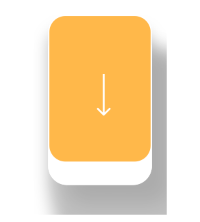
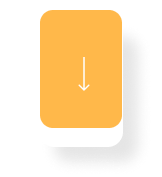
improvements
- re build flip tips png assets
- emoji color to seperate file
- fixed references
- animated scroll to top for question bank

Changed region(s): [[0.216, 0.0565, 0.8333, 0.9887], [0.463, 0.4802, 0.5556, 0.5367], [0.4938, 0.3107, 0.5247, 0.339]]

diff --git a/lib/ui/flash_card/card/flash_card_swipe.dart b/lib/ui/flash_card/card/flash_card_swipe.dart
@@ -68,7 +68,7 @@ class FlashCardSwipeState extends State<FlashCardSwipe>
   bool emojiClick;
   Color topColor;
   String topText;
-  String _confidence;
+  CardAction _confidence;
 
   double screenWidth;
   double screenHeight;
@@ -207,12 +207,12 @@ class FlashCardSwipeState extends State<FlashCardSwipe>
       _isUndoing = true;
     //triggered after top bar shown
     setState(() {
-      _confidence = "";
+      _confidence = null;
       _hideCard = true;
       _showFrontSide = true;
       _cardInPosition = false;
     });
-    Future.delayed(Duration(milliseconds: 300), () {
+    Future.delayed(Duration(milliseconds: Durations.cardFadeGap), () {
       //animate top
       _flashcardtop.currentState.undoTab();
       setState(() {
@@ -323,17 +323,21 @@ class FlashCardSwipeState extends State<FlashCardSwipe>
           });
   }
 
-  void animateSwipe(String action, [bool isClick = false]) {
+  void animateSwipe(CardAction action, [bool isClick = false]) {
     emojiClick = isClick;
     switch (action) {
-      case "right":
+      case CardAction.Right:
         _controller.add(pi / 4);
         break;
-      case "bottom":
+      case CardAction.Down:
         _controller.add(3 * pi / 4);
         break;
-      case "left":
+      case CardAction.Left:
         _controller.add(pi);
+        break;
+      case CardAction.Up:
+      case CardAction.Reset:
+      case CardAction.Success:
         break;
     }
   }
@@ -365,7 +369,7 @@ class FlashCardSwipeState extends State<FlashCardSwipe>
   }
 
   void endDrag(Offset position, DragEndDetails details) {
-    if (_confidence.isEmpty) {
+    if (_confidence == null) {
       _flashcardtop.currentState
           .updateTab(Color(0xFFFFFFFF).withOpacity(0), "");
       widget.emojiMe(CardAction.Reset, 1);
@@ -407,9 +411,9 @@ class FlashCardSwipeState extends State<FlashCardSwipe>
 
   void setConfidenceHelper(double opacity, CardAction type) {
     if (opacity == 1 && type != CardAction.Up) {
-      _confidence = EnumToString.convertToString(type);
+      _confidence = type;
     } else {
-      _confidence = "";
+      _confidence = null;
     }
     //update opacity & text for top banner
     switch (type) {

diff --git a/lib/ui/questions/multiple_choice_question_screen.dart b/lib/ui/questions/multiple_choice_question_screen.dart
@@ -80,6 +80,8 @@ class _MultipleChoiceQuestionScreenState
   final _animationDuration = Duration(
     milliseconds: 200,
   );
+  static const int scrollDuration = 500;
+  final _scrollController = ScrollController();
 
   int correctAnswers = 0;
   int wrongAnswers = 0;
@@ -95,6 +97,7 @@ class _MultipleChoiceQuestionScreenState
   RepositoryResult<QuestionList> _repoQuestion;
   bool _firstPressed = true;
   bool isQOTD = false;
+
   @override
   void initState() {
     super.initState();
@@ -389,6 +392,7 @@ class _MultipleChoiceQuestionScreenState
           )
         : _questionsList.isNotEmpty
             ? ListView(
+                controller: _scrollController,
                 shrinkWrap: true,
                 children: <Widget>[
                   Padding(
@@ -589,6 +593,11 @@ class _MultipleChoiceQuestionScreenState
       });
     }
     _previousQuestionIndex = _currentQuestionIndex;
+    _scrollController.animateTo(
+      0,
+      duration: const Duration(milliseconds: scrollDuration),
+      curve: Curves.linear,
+    );
   }
 
   void _logShowAnswersEvent(int index) {
@@ -757,7 +766,8 @@ class _MultipleChoiceQuestionScreenState
         }
 
         _loading = false;
-        if (_currentQuestionIndex >= _questionsList.length) _goToSummarize();
+        if (_questionsList.length > 0 &&
+            _currentQuestionIndex >= _questionsList.length) _goToSummarize();
       });
     } else {
       _error = result;

diff --git a/lib/ui/flash_card/card/flash_card_widget.dart b/lib/ui/flash_card/card/flash_card_widget.dart
@@ -61,8 +61,8 @@ class _FlashCardWidgetState extends State<FlashCardWidget>
       detector = ShakeDetector.autoStart(onPhoneShake: () {
         if (_flashCardSwipe != null && widget.cardIndex > 0) {
           _flashCardSwipe.currentState.undo();
-          _flashCardBottom.currentState.cancelUpdate();
           Future.delayed(Duration(milliseconds: Durations.cardFadeGap), () {
+            _flashCardBottom.currentState.cancelUpdate();
             widget.changeCardIndex(increase: false);
           });
 
@@ -149,19 +149,6 @@ class _FlashCardWidgetState extends State<FlashCardWidget>
     });
   }
 
-  String swipeDirection(FlashcardStatus confidence) {
-    switch (confidence) {
-      case FlashcardStatus.Neutral:
-        return "bottom";
-      case FlashcardStatus.Positive:
-        return "right";
-      case FlashcardStatus.Negative:
-        return "left";
-      default:
-        return "";
-    }
-  }
-
   void _nextFlashcard(
       {bool increase = true,
       String trigger = "swipe",
@@ -171,7 +158,7 @@ class _FlashCardWidgetState extends State<FlashCardWidget>
     bool isSwiped = trigger == "swipe";
     if (!isSwiped)
       _flashCardSwipe.currentState
-          .animateSwipe(swipeDirection(cardstatus), true);
+          .animateSwipe(enumFlashcardStatusToCardAction(cardstatus), true);
 
     _flashcardStatus = cardstatus;
     _flashCardSwipe.currentState.returnToFront();

diff --git a/lib/widgets/app_bars/questions_app_bar.dart b/lib/widgets/app_bars/questions_app_bar.dart
@@ -44,6 +44,7 @@ class _QuestionAppBarState extends State<QuestionAppBar> {
 
   var widgetKey = GlobalKey();
   Size oldSize;
+  final int FadeDuration = 350;
 
   void postFrameCallback() {
     var context = widgetKey.currentContext;
@@ -61,7 +62,7 @@ class _QuestionAppBarState extends State<QuestionAppBar> {
     SchedulerBinding.instance.addPostFrameCallback((_) => postFrameCallback());
 
     if (!widget.isVisible) {
-      Future.delayed(Duration(milliseconds: 200), () {
+      Future.delayed(Duration(milliseconds: FadeDuration), () {
         if (this.mounted) {
           setState(() {
             widget.isVisible = true;
@@ -172,7 +173,7 @@ class _QuestionAppBarState extends State<QuestionAppBar> {
           ),
           child: AnimatedOpacity(
               opacity: widget.isVisible ? 1.0 : 0.0,
-              duration: Duration(milliseconds: 200),
+              duration: Duration(milliseconds: FadeDuration),
               child: Text(
                 userAnswer,
                 style:

diff --git a/lib/ui/flash_card/card/flash_card_bottom.dart b/lib/ui/flash_card/card/flash_card_bottom.dart
@@ -232,13 +232,13 @@ class FlashCardBottomState extends State<FlashCardBottom>
     });
 
     Future.delayed(const Duration(milliseconds: 500), () {
-      selectedEmoji = null;
       _updatedOption = false;
       widget.nextCard(
           increase: true,
           trigger: "bottom_navigation",
           cardstatus: getFlashcardStatusEnum(
               EnumToString.convertToString(selectedEmoji)));
+      selectedEmoji = null;
     });
   }
 
@@ -279,10 +279,10 @@ class FlashCardBottomState extends State<FlashCardBottom>
           ),
           color: selectedEmoji == type
               ? selectedEmoji == EmojiType.Neutral
-                  ? Color(0xFFFFB84A)
+                  ? EmojiColors.neutral
                   : selectedEmoji == EmojiType.Positive
-                      ? Color(0xFF0AD1A5)
-                      : Color(0xFFFF8131)
+                      ? EmojiColors.positive
+                      : EmojiColors.negative
               : Colors.white,
         ),
       ),

diff --git a/lib/ui/flash_card/card/flash.dart b/lib/ui/flash_card/card/flash.dart
@@ -1,3 +1,5 @@
+import 'package:flutter/material.dart';
+
 enum EmojiType {
   Neutral,
   Positive,
@@ -25,6 +27,28 @@ EmojiType enumFlashcardStatusToEmoji(FlashcardStatus status) {
     default:
       return null;
   }
+}
+
+CardAction enumFlashcardStatusToCardAction(FlashcardStatus status) {
+  switch (status) {
+    case FlashcardStatus.Negative:
+      return CardAction.Left;
+    case FlashcardStatus.Positive:
+      return CardAction.Right;
+    case FlashcardStatus.Neutral:
+      return CardAction.Down;
+    case FlashcardStatus.Seen:
+    case FlashcardStatus.New:
+    default:
+      return null;
+  }
+}
+
+class EmojiColors {
+  static Color none = Color(0xFFFFB84A);
+  static Color neutral = Color(0xFFFFB84A);
+  static Color positive = Color(0xFF0AD1A5);
+  static Color negative = Color(0xFFFF8131);
 }
 
 class Durations {

diff --git a/lib/widgets/progress_card_wrapper/progress_card_wrapper.dart b/lib/widgets/progress_card_wrapper/progress_card_wrapper.dart
@@ -132,9 +132,13 @@ class _ProgressCardWrapper extends State<ProgressCardWrapper>
             ),
             noProgress
                 ? NoProgressCard(
-                    text: "progress_screen.no_questions",
+                    text: widget.isFlashCard
+                        ? "progress_screen.no_flashcards"
+                        : "progress_screen.no_questions",
                     onTapButton: widget.onTapAction,
-                    buttonText: "progress_screen.see_questions",
+                    buttonText: widget.isFlashCard
+                        ? "progress_screen.try_flashcards"
+                        : "progress_screen.see_questions",
                     icon: widget.isFlashCard
                         ? Icons.flash_on
                         : Icons.help_outline_rounded,

diff --git a/lib/widgets/progress_bar/progress_bar.dart b/lib/widgets/progress_bar/progress_bar.dart
@@ -5,14 +5,15 @@ import 'package:flutter/material.dart';
 
 class ProgressBar extends StatelessWidget {
   final bool isDark;
-
   ProgressBar({this.isDark = false});
 
   @override
   Widget build(BuildContext context) {
     if (Platform.isIOS) {
       return Theme(
-          data: isDark?ThemeData.dark():ThemeData.light(),
+          data: ThemeData(
+              cupertinoOverrideTheme: CupertinoThemeData(
+                  brightness: isDark ? Brightness.dark : Brightness.light)),
           child: CupertinoActivityIndicator(radius: 16));
     } else {
       return CircularProgressIndicator();

diff --git a/lib/ui/flash_card/screen/flash_cards_stack.dart b/lib/ui/flash_card/screen/flash_cards_stack.dart
@@ -72,7 +72,7 @@ class FlashCardsStack extends StatelessWidget {
           AnimatedOpacity(
               opacity:
                   cardIndex < flashcardsStackModel.items.length - 1 ? 1 : 0,
-              duration: const Duration(milliseconds: 250),
+              duration: Duration(milliseconds: Durations.cardFade),
               child: Transform.rotate(
                   angle: -math.pi / 32,
                   child: Container(

diff --git a/lib/ui/onboarding/schedule_test_date_screen.dart b/lib/ui/onboarding/schedule_test_date_screen.dart
@@ -262,7 +262,7 @@ class _SchedulingTestDateScreenState extends State<SchedulingTestDateScreen> {
                     params: null);
                 Navigator.pop(context);
 
-                dateController.selectedDate = null; //Add this in your Code.
+                dateController.selectedDate = null;
                 setState(() {
                   scheduleDate = null;
                   userManager.removeTestDate();

diff --git a/lib/ui/flash_cards_bank/wigets/review_by_status_widget.dart b/lib/ui/flash_cards_bank/wigets/review_by_status_widget.dart
@@ -70,8 +70,8 @@ class ReviewByStatusWidget extends StatelessWidget {
           ),
           child: Padding(
             padding: const EdgeInsets.all(2.0),
-            child: SvgPicture.asset(
-              asset,
+            child: Image(
+              image: AssetImage(asset),
               width: whenDevice(context, large: 30, tablet: 60),
               color: Style.of(context).colors.content2,
             ),

diff --git a/lib/ui/progress/progress_screen.dart b/lib/ui/progress/progress_screen.dart
@@ -351,7 +351,8 @@ class _ProgressScreenState extends State<ProgressScreen> {
   }
 
   void updateSubject(Subject subject, bool isQB) {
-    _analyticsProvider.logEvent("filter_question_subject",
+    _analyticsProvider.logEvent(
+        isQB ? "filter_flashcard_subject" : "filter_question_subject",
         params: {"subject_name": subject.name});
 
     if (isQB)
